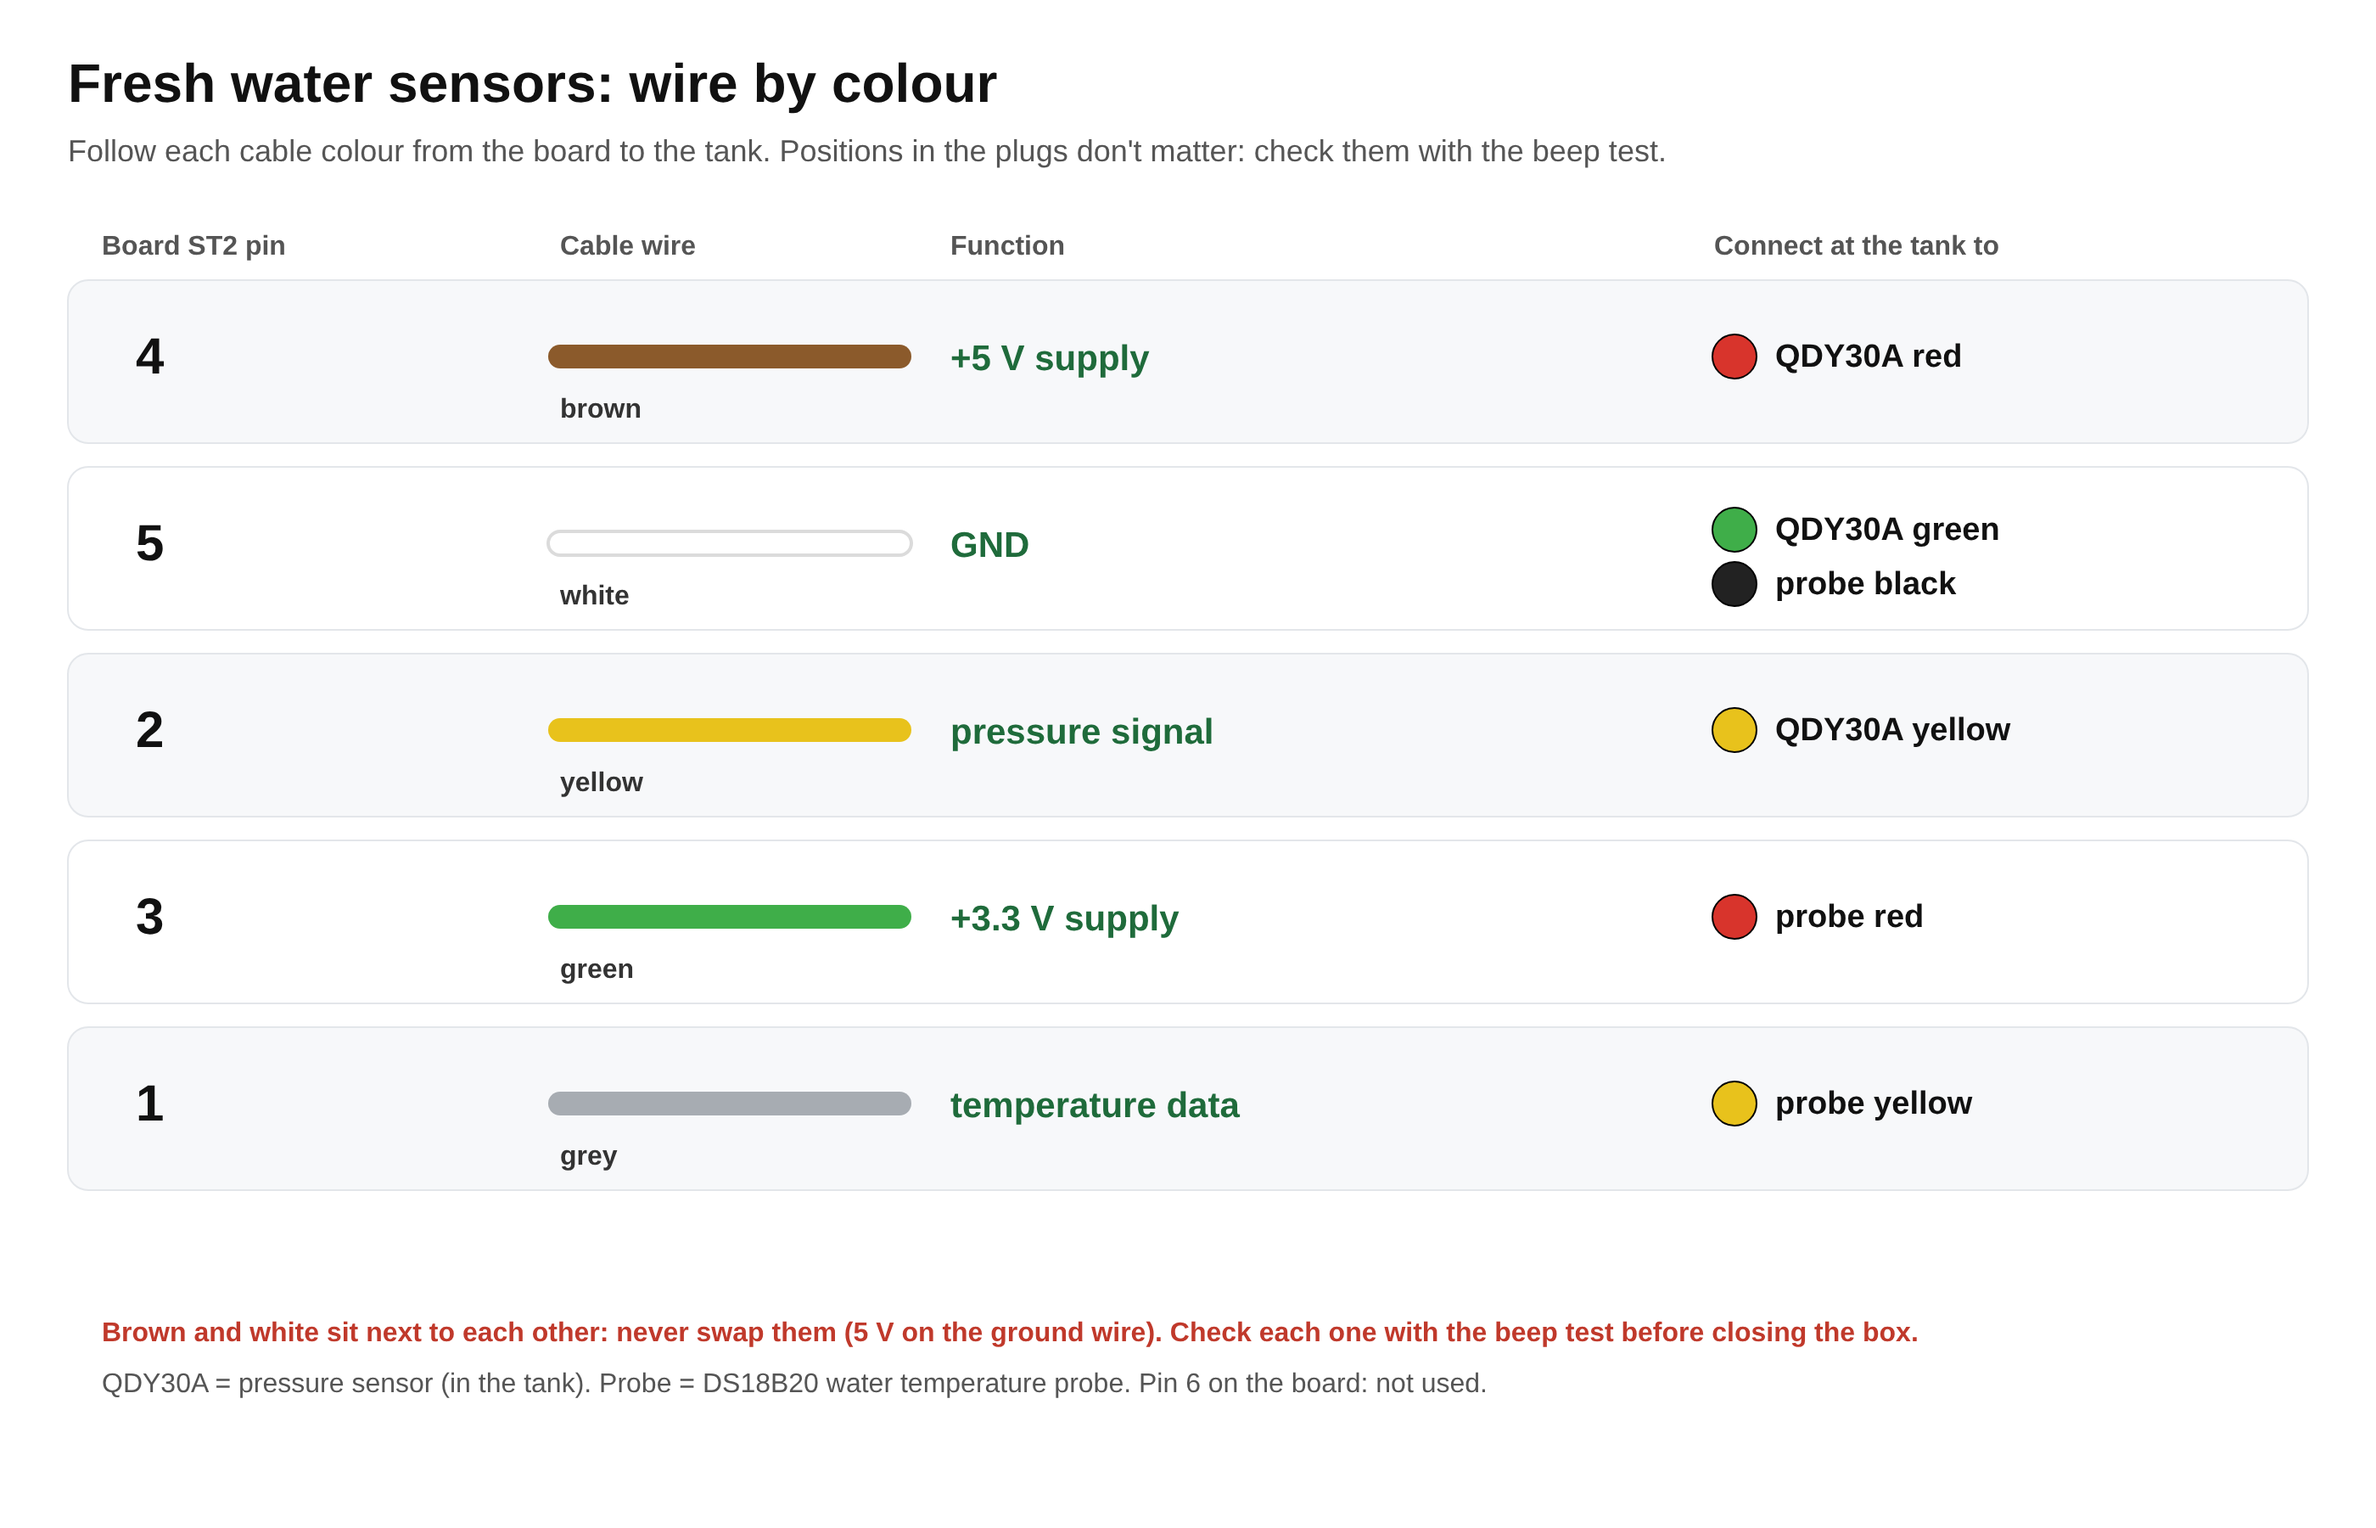
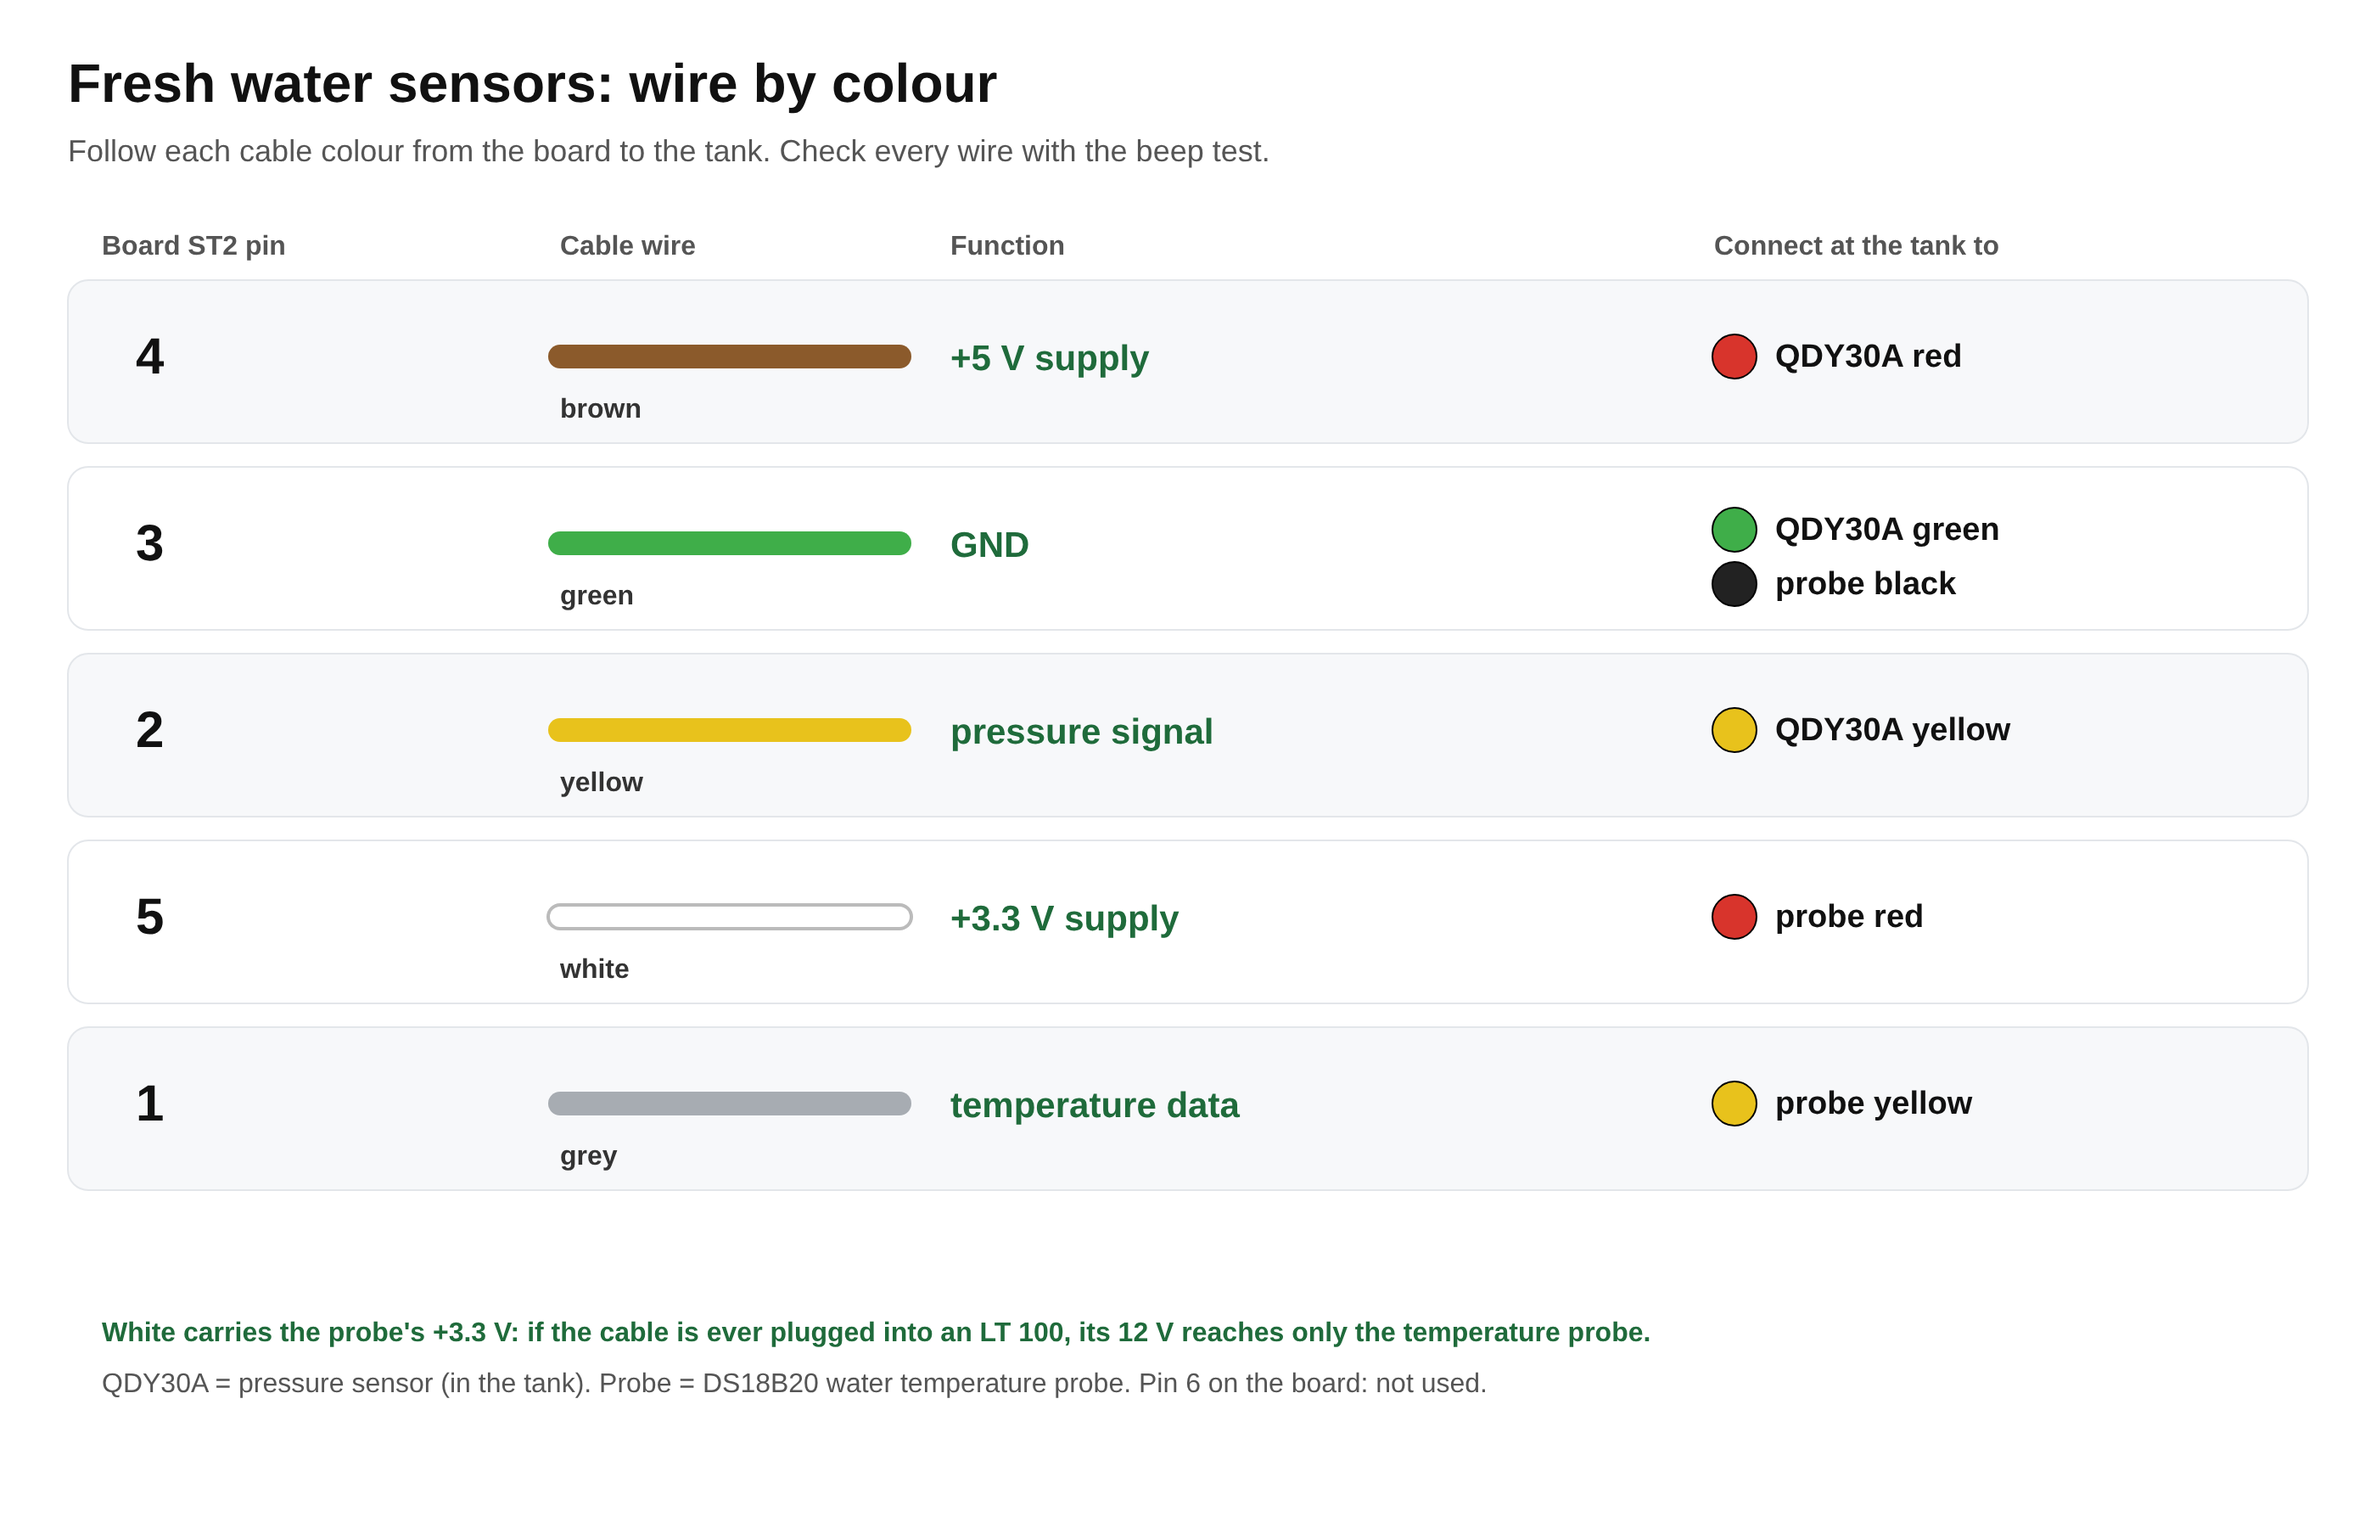
Fresh water: white = probe +3.3 V, green = GND, so a wrong plug into the LT 100 (12 V on white) never reaches the pressure sensor; guide, drawings and board plan updated
Claude-Session: https://claude.ai/code/session_017Ac5dLa5nMit1aiT2DcVLT

diff --git a/docs/fresh-water-wiring.md b/docs/fresh-water-wiring.md
@@ -13,14 +13,20 @@ because you check every wire with a beep test before you close anything.
 | Cable wire | Function | At the tank, connect to | At the board (ST2 pin) |
 |---|---|---|---|
 | **brown** | +5 V supply | QDY30A **red** | 4 |
-| **white** | GND | QDY30A **green** + probe **black** | 5 |
+| **green** | GND | QDY30A **green** + probe **black** | 3 |
 | **yellow** | pressure signal | QDY30A **yellow** | 2 |
-| **green** | +3.3 V supply | probe **red** | 3 |
+| **white** | +3.3 V supply | probe **red** | 5 |
 | **grey** | temperature data | probe **yellow** | 1 |
 | – | – | – | 6 (not used) |
 
-Easy to remember: **yellow goes to yellow** (the pressure signal); the probe's wires go to the
-two remaining "light" colours (green and grey); brown is the sensor's +5 V and white is ground.
+Easy to remember: **green goes to green and yellow to yellow** for the pressure sensor (ground and
+signal), brown is its +5 V; the temperature probe gets the light colours, white (+3.3 V) and grey
+(data).
+
+**Why white is the probe's +3.3 V:** the LT 100 puts 12 V on the white wire. If this cable is
+ever plugged back into an LT 100 by mistake, the 12 V reaches only the temperature probe (cheap,
+may break), never the pressure sensor; the LT 100's other four wires are measuring inputs without
+supply.
 
 ## What you need
 
@@ -47,14 +53,14 @@ two remaining "light" colours (green and grey); brown is the sensor's +5 V and w
 
    | Sensor half hole (wire side, latch on top) | Sensor wire | Meets cable wire |
    |---|---|---|
-   | a top left | probe red | green |
+   | a top left | QDY30A green + probe black | green |
    | b top middle | QDY30A red | brown |
-   | c top right | QDY30A green + probe black | white |
+   | c top right | probe red | white |
    | d bottom left | – (empty) | – |
    | e bottom middle | probe yellow | grey |
    | f bottom right | QDY30A yellow | yellow |
 
-   Two wires in one contact (hole c) rarely hold well: join QDY30A green and probe black to a
+   Two wires in one contact (hole a) rarely hold well: join QDY30A green and probe black to a
    short single wire first (solder or a small splice) and crimp that one.
 
    *Easiest:* don't re-pin the round plug at all. Cut the cable just before the round plug,
@@ -70,7 +76,7 @@ Do this once, before connecting the sensors:
    thin needle in from the wire side if needed).
 3. At the tank end, touch the other probe to each of the 5 wire ends: it beeps on exactly one.
    That one must be **brown** too.
-4. Repeat for white, yellow, green and grey.
+4. Repeat for green, yellow, white and grey.
 5. If a colour changes along the way (for example inside the round plug), write it down and use
    the colour **at the tank** for step 3, but keep the function from the table above.
 
@@ -78,14 +84,14 @@ Do this once, before connecting the sensors:
 
 ```
  cable brown  ───────────── QDY30A red      (+5 V)
- cable white  ──────┬────── QDY30A green    (GND)
+ cable green  ──────┬────── QDY30A green    (GND)
                     └────── probe black     (GND)
  cable yellow ───────────── QDY30A yellow   (pressure signal)
- cable green  ───────────── probe red       (+3.3 V)
+ cable white  ───────────── probe red       (+3.3 V)
  cable grey   ───────────── probe yellow    (temperature data)
 ```
 
-* **Ground (white):** three wires in one connector: cable white + QDY30A green + probe black.
+* **Ground (green):** three wires in one connector: cable green + QDY30A green + probe black.
   With a WAGO 221-413 (3-way) that's one lever; when soldering, twist them, solder, heat-shrink.
 * **Vent tube:** the QDY30A cable has a thin air tube inside. Its end must stay **open, in dry
   air**: cut the cable straight, don't fill it with glue or heat-shrink, and keep the end inside
@@ -99,18 +105,18 @@ With the multimeter on **resistance**, at the board end (ST2 plug):
 
 | Measure between | Expect | If not |
 |---|---|---|
-| brown and white | not a short (some kΩ or more) | brown/white swapped or touching: fix before power! |
-| green and white | not a short | probe wires swapped |
-| yellow and white | not a short | |
-| grey and white | not a short | |
+| brown and green | not a short (some kΩ or more) | +5 V and ground swapped or touching: fix before power! |
+| white and green | not a short | probe wires swapped or touching |
+| yellow and green | not a short | |
+| grey and green | not a short | |
 
 Then, with the **new board** (or the test setup below) powered, measure with the meter on
-**DC volts**, black probe on white:
+**DC volts**, black probe on green:
 
 | Wire | Expect |
 |---|---|
 | brown | about 5.0 V |
-| green | about 3.3 V |
+| white | about 3.3 V |
 | yellow | about 0 V with the tank empty, rising about 0.165 V per 10 cm of water |
 | grey | about 3.3 V (pulled up; the probe pulls it down briefly when it talks) |
 
@@ -129,9 +135,9 @@ the cable now with the current hand-wired ESP32, connect its board end like this
 | Cable wire | Current I/O extension |
 |---|---|
 | brown | buck converter **5 V output, before the diode** |
-| white | GND |
+| green | GND |
 | yellow | 10 kΩ → GPIO4, with 100 nF and 1 MΩ from GPIO4 to GND |
-| green | ESP32 **3V3** |
+| white | ESP32 **3V3** |
 | grey | GPIO5, with **4.7 kΩ** from GPIO5 to 3V3 |
 
 The cable can be several metres long; that is fine for both sensors (for very long runs use

diff --git a/docs/io-board.md b/docs/io-board.md
@@ -92,9 +92,9 @@ wire (the LT 100's 12 V for the rods) now carries the sensor supply.
 
 | Pin* | Wire | Was (rods, LT 100) | Now (board) | Tank plug hole → sensor wire |
 |---|---|---|---|---|
-| 5 | white | Base, +12 V | **GND** (pressure sensor + temperature probe) | c → QDY30A green + probe black |
+| 5 | white | Base, +12 V | **+3.3 V** temperature probe supply | c → probe red |
 | 4 | brown | ¼ rod | **+5 V** pressure sensor supply | b → QDY30A red |
-| 3 | green | ½ rod | **+3.3 V** temperature probe supply | a → probe red |
+| 3 | green | ½ rod | **GND** (pressure sensor + temperature probe) | a → QDY30A green + probe black |
 | 2 | yellow | ¾ rod | **pressure signal** (10 kΩ + RC to GPIO4) | f → QDY30A yellow |
 | 1 | grey | Full rod | **temperature data** (DS18B20, 4.7 kΩ to 3.3 V, GPIO5) | e → probe yellow |
 | 6 | – | not connected | spare | d → – |
@@ -111,7 +111,8 @@ Step-by-step guide: [fresh-water-wiring.md](fresh-water-wiring.md).
 * At the tank, the round 6-way plug's **sensor half** is re-wired (the rod probe comes out); the
   cable half and its colours stay. Its layout is the mirror image of the cable half.
 * **5 V, not 12 V**, on the brown wire: the 0–3.3 V version of the QDY30A runs on 5 V (see
-  [wiring.md](wiring.md)). Do not plug this cable back into an LT 100 afterwards.
+  [wiring.md](wiring.md)). If the cable is ever plugged into an LT 100 by mistake, its 12 V lands
+  on white = the temperature probe only; the pressure sensor gets no 12 V.
 * The pressure sensor's vent tube needs open air: make the joint at the tank in a small dry box
   (see the note on extending the sensor cable in [wiring.md](wiring.md)).
 * The fresh tank is then measured in litres (pressure sensor); the 4-step rod reading is no longer
